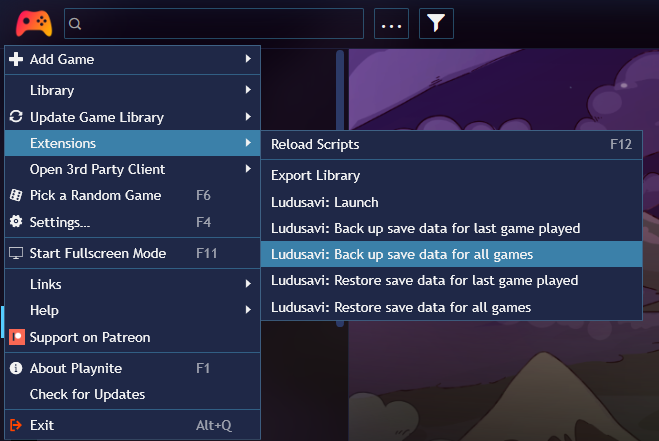
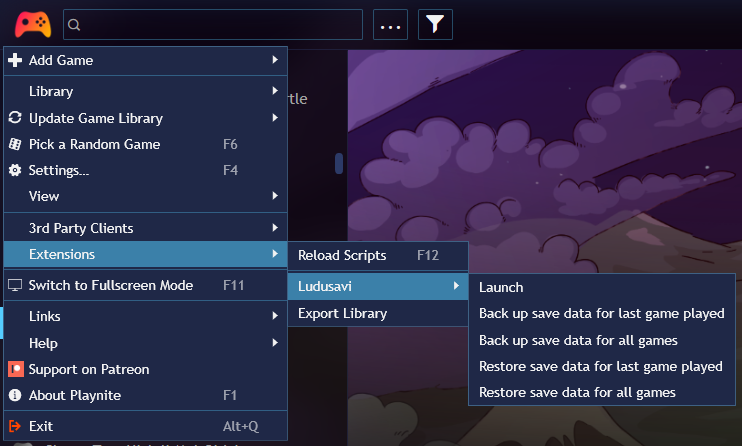
Release v0.4.0

diff --git a/tasks.py b/tasks.py
@@ -31,7 +31,7 @@ def pack(ctx, toolbox="~/AppData/Local/Playnite/Toolbox.exe"):
     toolbox = Path(toolbox).expanduser()
     ctx.run('"{}" pack "{}" dist'.format(toolbox, target))
     for file in glob(str(REPO / "dist/*.pext")):
-        if "raw_" in file:
+        if "_" in file:
             shutil.move(file, str(REPO / "dist/ludusavi-playnite-v{}.pext".format(get_version())))
 
     shutil.make_archive(str(REPO / "dist/ludusavi-playnite-v{}".format(get_version())), "zip", str(target))

diff --git a/README.md b/README.md
@@ -49,8 +49,11 @@ still be included if you do a full backup of all games from the menu.
 ### Prompt after exiting a game
 > ![Screenshot of prompt after exiting a game](docs/prompt.png)
 
-### Menu actions
-> ![Screenshot of menu actions](docs/actions.png)
+### Main menu actions
+> ![Screenshot of main menu actions](docs/actions.png)
+
+### Game menu actions
+> ![Screenshot of game menu actions](docs/actions-per-game.png)
 
 ### Notifications
 > ![Screenshot of notifications](docs/notifications.png)
@@ -67,6 +70,9 @@ still be included if you do a full backup of all games from the menu.
   use the same names, so if Ludusavi doesn't recognize it, and if the game is
   from Steam, then the plugin will ask again with the game's Steam ID.
   If that fails too, then you'll get a notification that no data was found.
+
+  This also applies to the "selected games" context menu option.
+  However, it does not apply to the "all games" main menu option.
 * For backups, the plugin always sets Ludusavi's `--merge` flag. This way,
   if you back up saves for one game, it will not interfere with any backups
   you may have for another game.

diff --git a/CHANGELOG.md b/CHANGELOG.md
@@ -1,4 +1,4 @@
-## Unreleased
+## v0.4.0 (2020-10-14)
 
 * Added:
   * Game-specific context menu entry to back up or restore the selected games.
